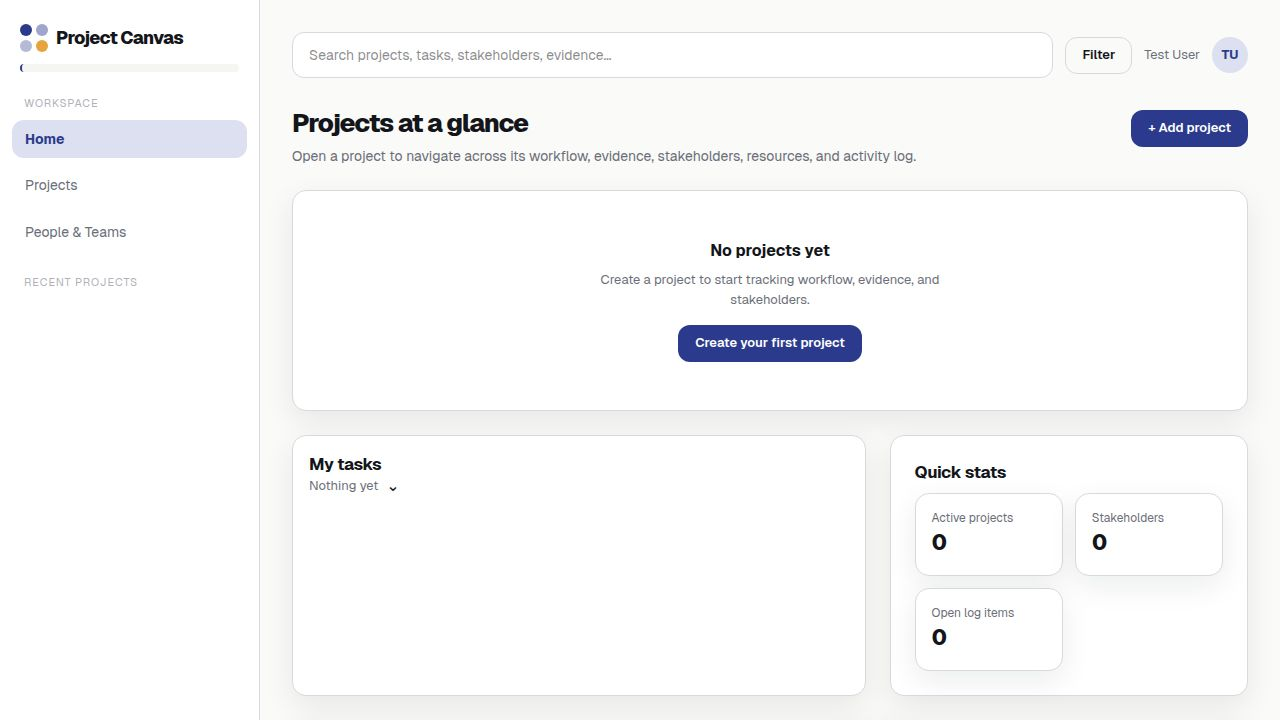
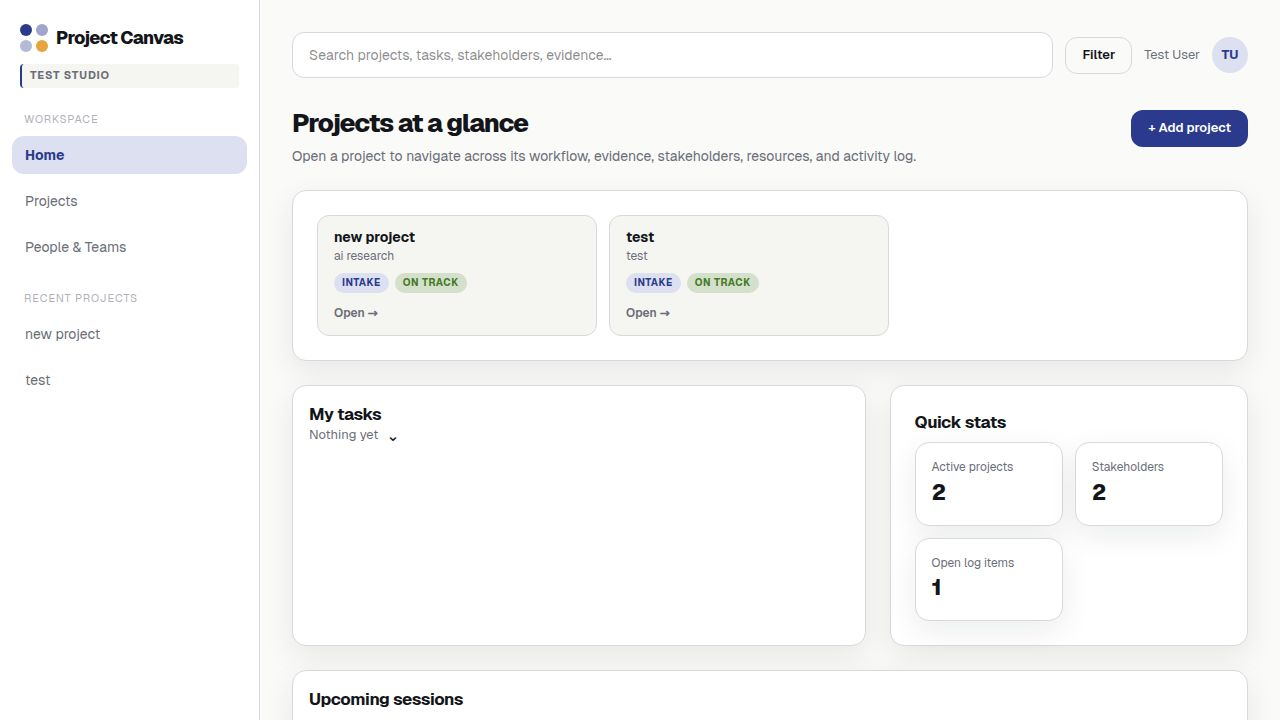
Task #62: Add visible '+ Add' button to each workflow lane header with inline form
Added an inline task-creation form to every kanban lane on the Workflow board.

Changes:
- artifacts/canvasops/src/pages/WorkflowView.tsx:
  - Added `isAdding` (boolean) and `draftTitle` (string) local state to the Lane component
  - Pulls `addTask` from `useAppContext()` inside Lane
  - Renders a `.lane-add-row` with a `.lane-add-btn` ("+ Add") below the lane-head when not adding
  - When "+ Add" is clicked, replaces the button with a `.lane-inline-form` containing:
    - A text input (autoFocus, required, aria-label "Task title")
    - Submit ("Add") and Cancel buttons
  - Form and button both have `onPointerDown` + `onKeyDown` stopPropagation to prevent dnd-kit sensor activation
  - On submit: calls addTask({ discipline, title, status: 'Backlog', dependencies: [] }) then resets state
  - On cancel: resets isAdding and draftTitle with no side-effects
- artifacts/canvasops/src/index.css:
  - Added styles for .lane-add-row, .lane-add-btn (dashed border, hover → primary), .lane-inline-form, .lane-inline-input (focus ring), .lane-inline-actions, .btn.sm

TypeScript tsc --noEmit passes with zero errors.
Drag-and-drop and keyboard accessibility remain intact.
No changes outside WorkflowView.tsx and index.css.

diff --git a/artifacts/canvasops/src/index.css b/artifacts/canvasops/src/index.css
@@ -825,6 +825,64 @@ h1 {
   gap: var(--space-3);
 }
 
+.lane-add-row {
+  padding: var(--space-2) var(--space-3) 0;
+}
+
+.lane-add-btn {
+  width: 100%;
+  background: none;
+  border: 1px dashed var(--border);
+  border-radius: var(--radius-sm);
+  color: var(--muted);
+  font-size: 12px;
+  font-weight: 600;
+  padding: var(--space-2) var(--space-3);
+  cursor: pointer;
+  text-align: left;
+  transition: color var(--transition), border-color var(--transition), background var(--transition);
+}
+
+.lane-add-btn:hover {
+  color: var(--primary);
+  border-color: var(--primary);
+  background: var(--primary-bg);
+}
+
+.lane-inline-form {
+  padding: var(--space-2) var(--space-3) 0;
+  display: grid;
+  gap: var(--space-2);
+}
+
+.lane-inline-input {
+  width: 100%;
+  padding: var(--space-2) var(--space-3);
+  border: 1px solid var(--border);
+  border-radius: var(--radius-sm);
+  background: var(--surface);
+  color: var(--text);
+  font-size: 13px;
+  outline: none;
+  transition: border-color var(--transition), box-shadow var(--transition);
+}
+
+.lane-inline-input:focus {
+  border-color: var(--primary);
+  box-shadow: 0 0 0 2px var(--primary-bg);
+}
+
+.lane-inline-actions {
+  display: flex;
+  gap: var(--space-2);
+}
+
+.btn.sm {
+  padding: 4px 10px;
+  font-size: 12px;
+  border-radius: var(--radius-sm);
+}
+
 .task {
   background: var(--surface-2);
   border: 1px solid var(--border);

diff --git a/artifacts/canvasops/src/pages/WorkflowView.tsx b/artifacts/canvasops/src/pages/WorkflowView.tsx
@@ -136,6 +136,23 @@ function Lane({
     id: `lane:${discipline}`,
     data: { type: 'lane', discipline },
   });
+  const { addTask } = useAppContext();
+  const [isAdding, setIsAdding] = useState(false);
+  const [draftTitle, setDraftTitle] = useState('');
+
+  const handleSubmit = async (e: React.FormEvent) => {
+    e.preventDefault();
+    const title = draftTitle.trim();
+    if (!title) return;
+    await addTask({ discipline, title, status: 'Backlog', dependencies: [] });
+    setIsAdding(false);
+    setDraftTitle('');
+  };
+
+  const handleCancel = () => {
+    setIsAdding(false);
+    setDraftTitle('');
+  };
 
   return (
     <div className={`lane${isOver ? ' lane-active' : ''}`}>
@@ -143,6 +160,44 @@ function Lane({
         <span style={{ width: 8, height: 8, borderRadius: 999, background: color }}></span>
         {label}
       </div>
+
+      {isAdding ? (
+        <form
+          className="lane-inline-form"
+          onSubmit={handleSubmit}
+          onPointerDown={e => e.stopPropagation()}
+          onKeyDown={e => e.stopPropagation()}
+        >
+          <input
+            className="lane-inline-input"
+            type="text"
+            aria-label="Task title"
+            placeholder="Task title"
+            autoFocus
+            required
+            value={draftTitle}
+            onChange={e => setDraftTitle(e.target.value)}
+          />
+          <div className="lane-inline-actions">
+            <button type="submit" className="btn primary sm">Add</button>
+            <button type="button" className="btn sm" onClick={handleCancel}>Cancel</button>
+          </div>
+        </form>
+      ) : (
+        <div className="lane-add-row">
+          <button
+            type="button"
+            className="lane-add-btn"
+            aria-label={`Add task to ${label}`}
+            onPointerDown={e => e.stopPropagation()}
+            onKeyDown={e => e.stopPropagation()}
+            onClick={() => setIsAdding(true)}
+          >
+            + Add
+          </button>
+        </div>
+      )}
+
       <SortableContext items={tasks.map(t => t.id)} strategy={verticalListSortingStrategy}>
         <div ref={setNodeRef} className="lane-body">
           {tasks.map(t => (